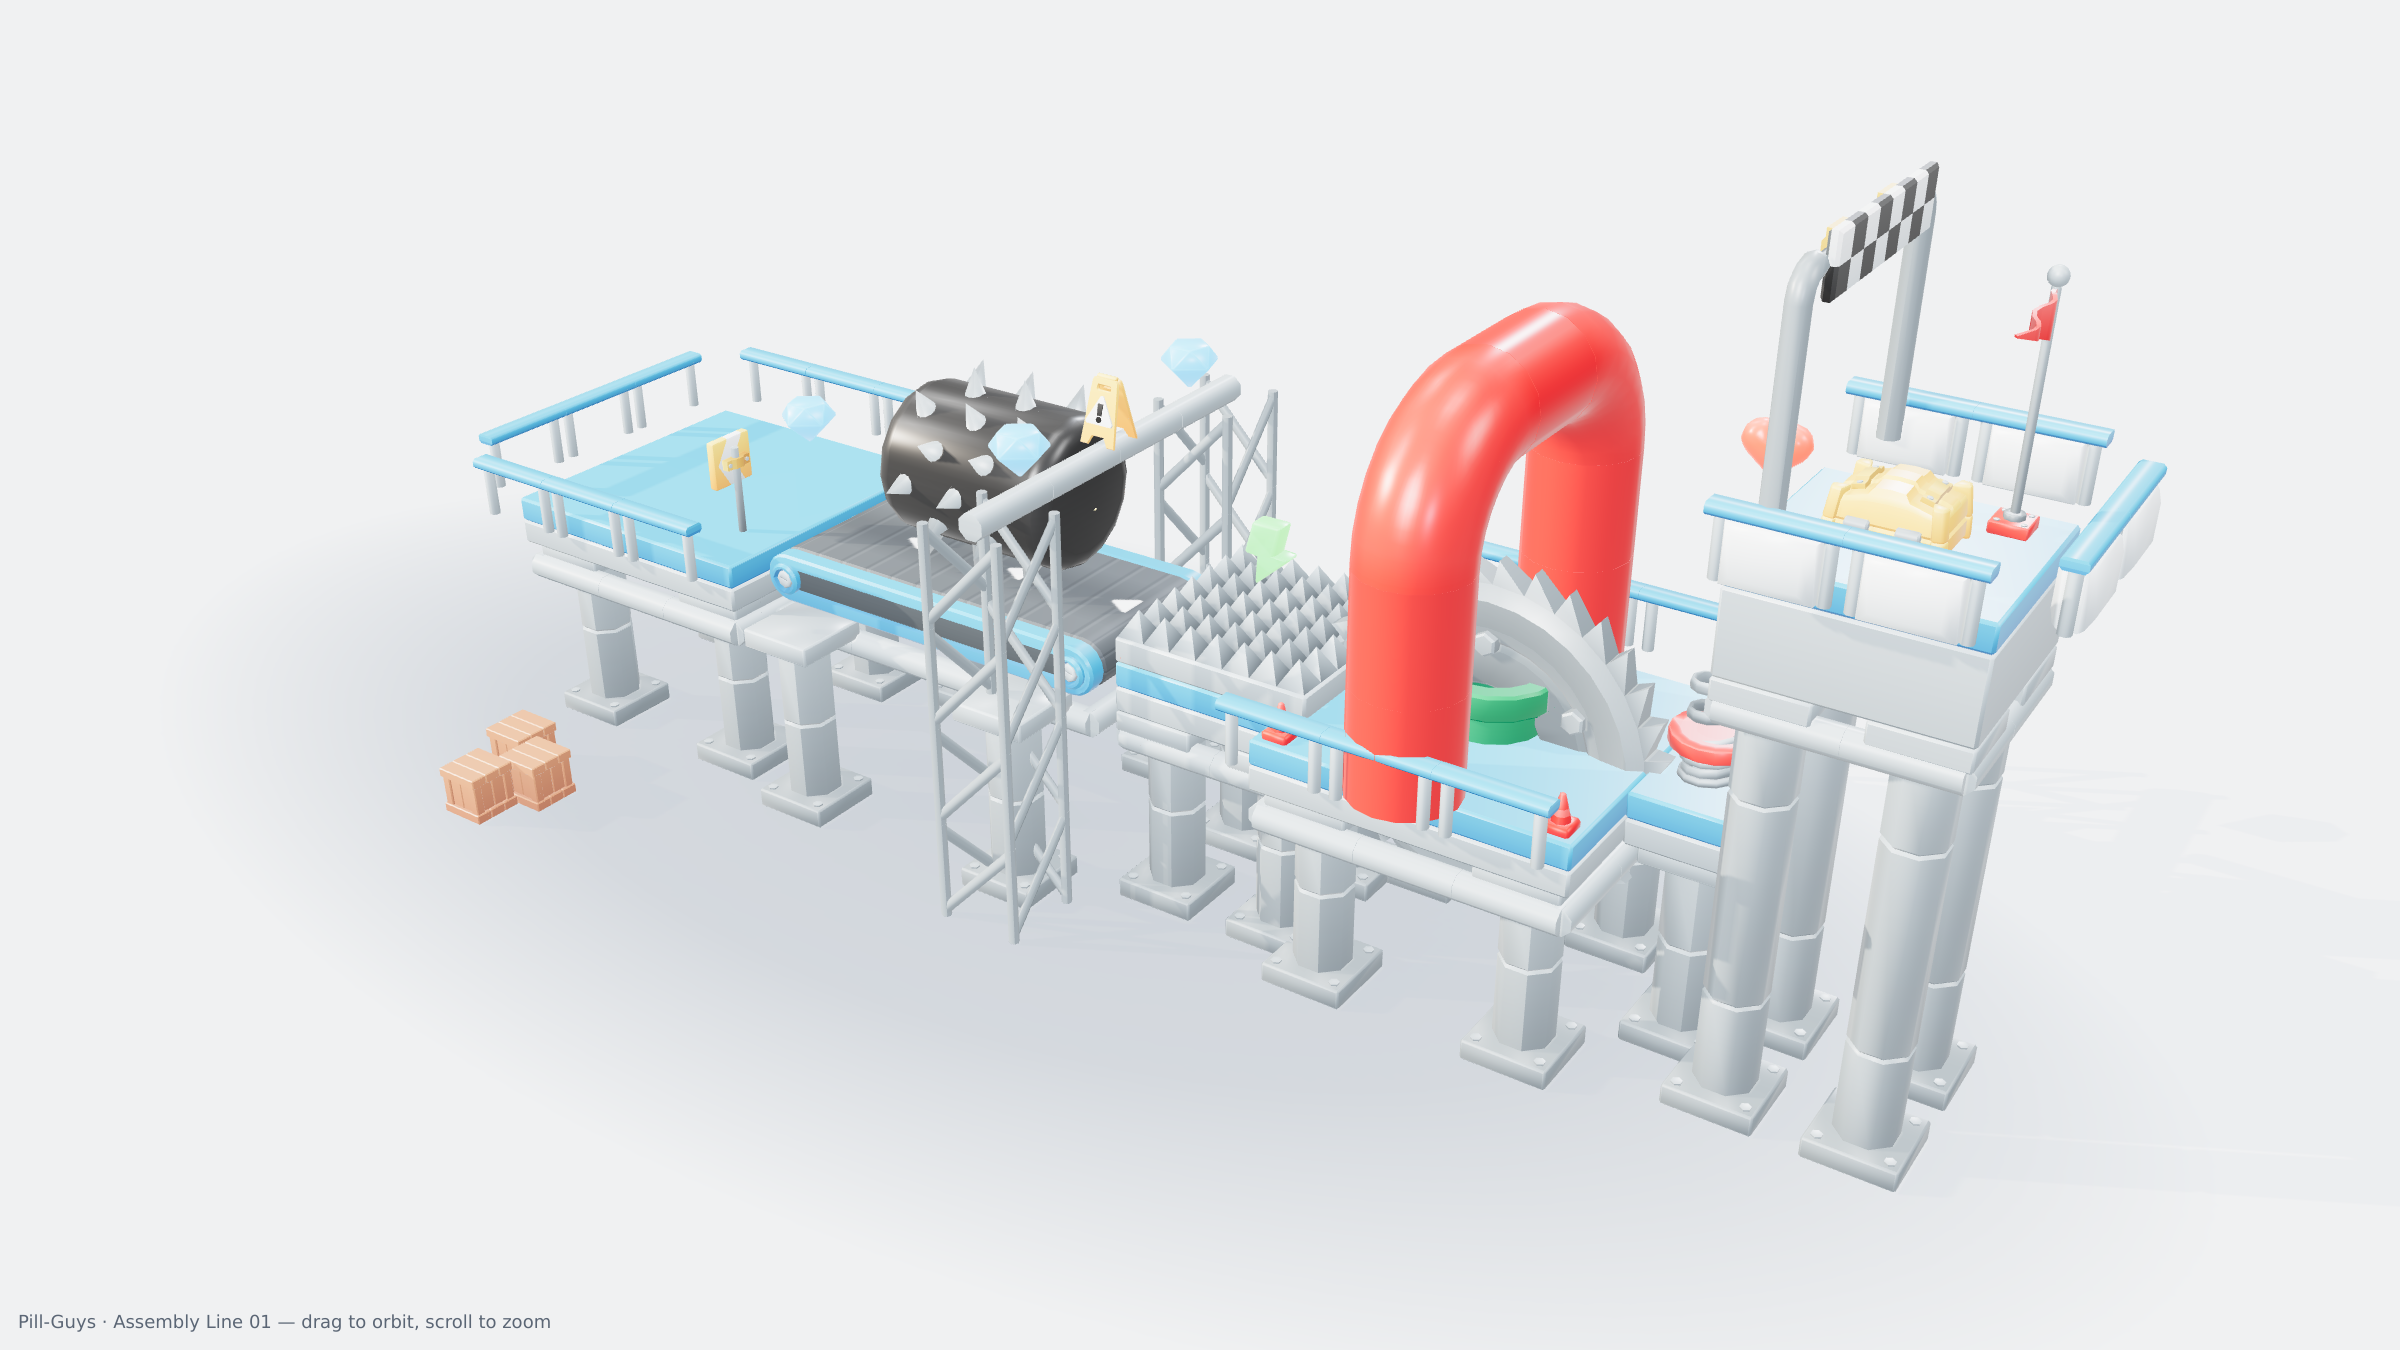
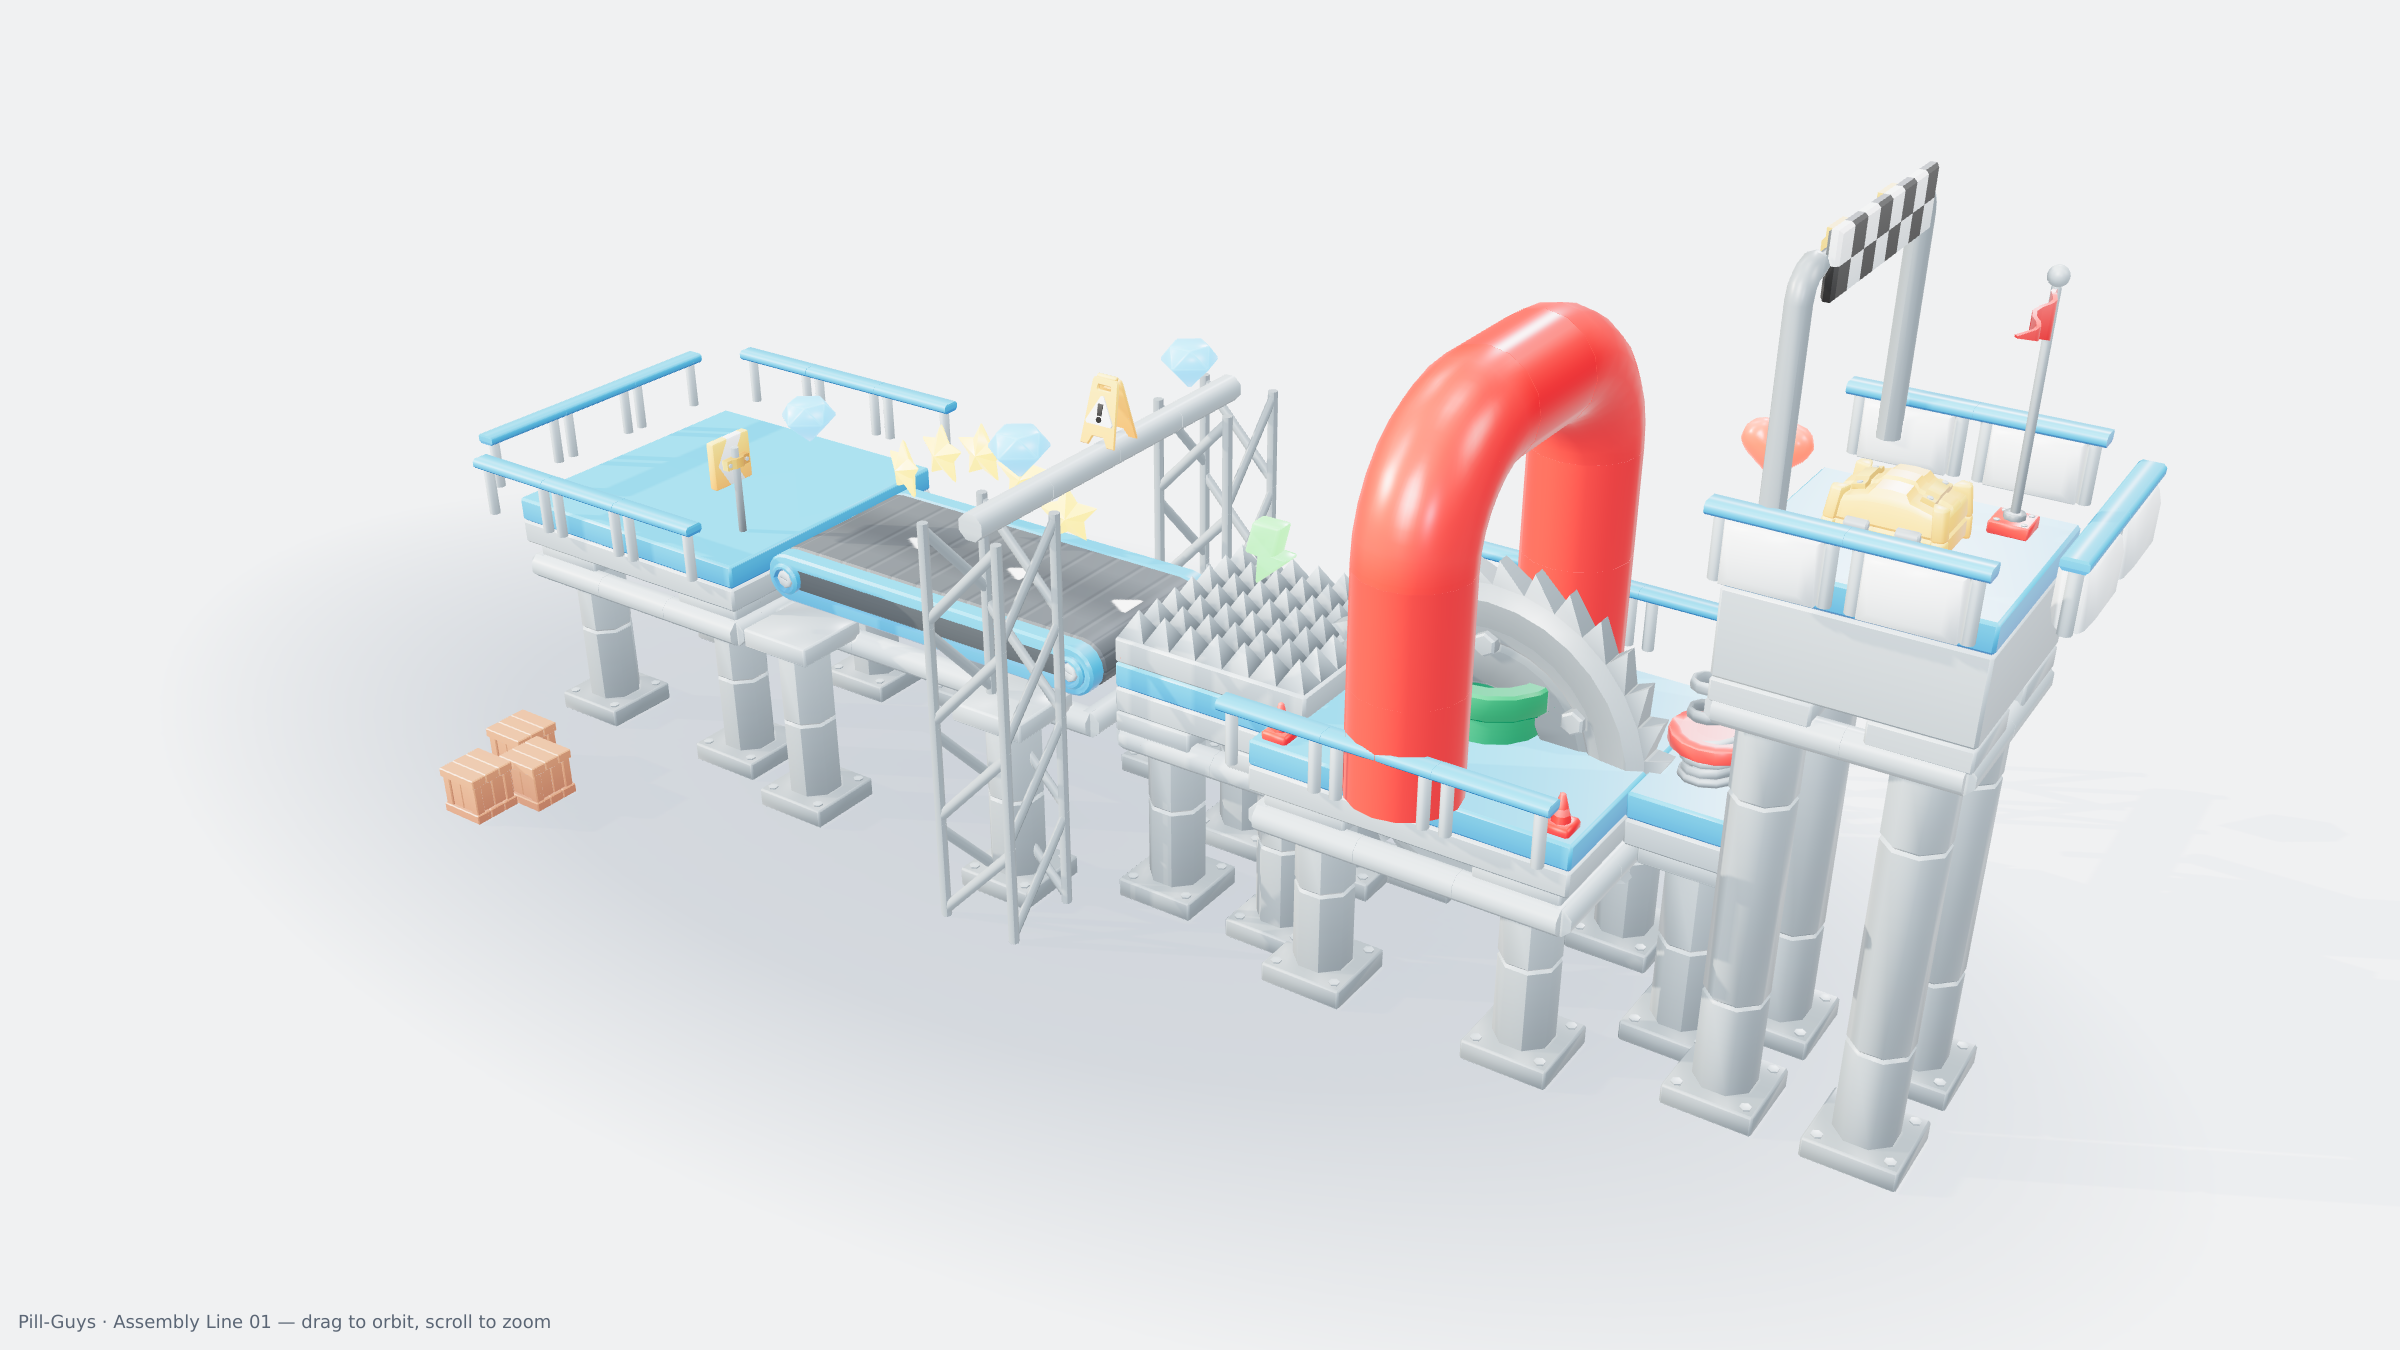
Make "Assembly Line 01" playable: physics, controls, gameplay, HUD
Wire the gameplay modules into a working browser platformer (game.html) and
fix integration issues found during end-to-end testing:
- physics.js: pass EXCLUDE_SENSORS to the character controller so trigger
  volumes are detected without acting as solid walls.
- game.js: deterministic test hooks (pause/step/testWarp) + follow camera
  offset with yaw 0 so the strip reads left->right and controls are
  world-aligned (fixes the pill drifting off the narrow decks).
- hazards.js: drop the non-functional, view-blocking spike roller.
- gameplay agents (verified): input (keyboard/touch), player (pill-guy
  kinematic capsule with coyote/jump-buffer), colliders (decks + sensors +
  8 coins), interactions + HUD, follow camera.
- integration_test.mjs: headless end-to-end test driving the real game —
  10/10 checks pass (move, jump, conveyor, spring, spikes->respawn, coins,
  finish banner, no page errors).
- README + regenerated preview.png/gameplay.png.

Play: cd web && npm install && npm run dev -> open /game.html
(WASD/arrows, Space jump, R restart).

Claude-Session: https://claude.ai/code/session_01EMvVBB8ascX6EsQtEzbMDA

Changed region(s): [[0.3438, 0.28, 0.4688, 0.4356]]

diff --git a/web/src/game.js b/web/src/game.js
@@ -19,7 +19,11 @@ async function start() {
   const world = buildColliders(physics, scene); // { spawn, coins }
   const input = createInput();
   const player = createPlayer(scene, physics, input, world.spawn);
-  const followCam = createFollowCamera(camera, player);
+  // Camera directly behind (+Z) and above so its yaw is 0: the strip reads
+  // left->right and "right" maps to world +X with no diagonal drift on the
+  // narrow decks. (An angled offset.x makes movement diagonal and walks the
+  // pill off the edge of the conveyor.)
+  const followCam = createFollowCamera(camera, player, { offset: { x: 0, y: 7.5, z: 11.5 }, lookBias: { x: 0, y: 1, z: 0 } });
   const hud = createHUD(world.coins ? world.coins.length : 0);
   const interactions = createInteractions({ physics, player, hud, world });
 
@@ -37,8 +41,40 @@ async function start() {
   }
   followCam.snap();
 
-  // Test/debug hooks (used by the headless smoke test).
-  window.__game = { scene, camera, physics, player, world, hud, input };
+  // One fixed simulation substep (shared by the rAF loop and the test hook).
+  function simStep() {
+    const yaw = followCam.yaw();
+    player.fixedUpdate(FIXED_DT, yaw);
+    physics.stepOnce();
+    interactions.update();
+    player.syncVisual();
+    if (input.restartPressed && input.restartPressed()) {
+      player.respawn();
+      hud.reset();
+      followCam.snap();
+    }
+  }
+
+  let simRunning = true;
+
+  // Test/debug hooks. step()/testWarp()/pause() let the headless integration
+  // test drive the sim deterministically (headless Chromium throttles rAF).
+  window.__game = {
+    scene, camera, physics, player, world, hud, input, followCam,
+    pause() { simRunning = false; },
+    resume() { simRunning = true; },
+    step(n = 1) {
+      for (let i = 0; i < n; i++) { simStep(); followCam.update(FIXED_DT); }
+    },
+    // Teleport the player without permanently moving the respawn point.
+    testWarp(x, y, z) {
+      const s = player.spawn;
+      const o = { x: s.x, y: s.y, z: s.z };
+      s.x = x; s.y = y; s.z = z;
+      player.respawn();
+      s.x = o.x; s.y = o.y; s.z = o.z;
+    },
+  };
   window.__ready = true;
   console.log('[game] ready');
 
@@ -47,22 +83,15 @@ async function start() {
   function frame(now) {
     const dt = Math.min((now - last) / 1000, 0.1);
     last = now;
-    acc += dt;
-    let guard = 0;
-    while (acc >= FIXED_DT && guard++ < 5) {
-      const yaw = followCam.yaw();
-      player.fixedUpdate(FIXED_DT, yaw);
-      physics.stepOnce();
-      interactions.update();
-      player.syncVisual();
-      if (input.restartPressed && input.restartPressed()) {
-        player.respawn();
-        hud.reset();
-        followCam.snap();
+    if (simRunning) {
+      acc += dt;
+      let guard = 0;
+      while (acc >= FIXED_DT && guard++ < 5) {
+        simStep();
+        acc -= FIXED_DT;
       }
-      acc -= FIXED_DT;
+      followCam.update(dt);
     }
-    followCam.update(dt);
     renderer.render(scene, camera);
     requestAnimationFrame(frame);
   }

diff --git a/web/src/props/hazards.js b/web/src/props/hazards.js
@@ -33,10 +33,6 @@ export async function build(level) {
   const sawCenterY = top - 0.4; // 4.6
   await place(level, ['sawblade', 'neutral', SEG.landmark.cx, 0, sawCenterY, 0, 90, 0]);
 
-  // --- Moving hazard: spike roller resting on the conveyor-side of the deck ---
-  // 4×4×4 cube, origin at center -> origin y = top + 2 so it rests ON the deck.
-  await place(level, ['spikeroller_horizontal', 'neutral', SEG.spikes.cx - 6, 0, top + 2]);
-
   // --- Spring launch on the bridge deck: red pad with a spring sitting in it ---
   await place(level, ['spring_pad', 'red', SEG.bridge.cx, 0, top]);
   await place(level, ['spring', 'neutral', SEG.bridge.cx, 0, top]);

diff --git a/web/src/physics.js b/web/src/physics.js
@@ -88,7 +88,10 @@ export async function initPhysics(gravityY = GRAVITY_Y) {
       collider,
       controller,
       computeMove(desired) {
-        controller.computeColliderMovement(collider, desired);
+        // EXCLUDE_SENSORS so trigger volumes (coins/spring/conveyor/finish/death)
+        // are detectable via sensorsOverlapping() without physically blocking the
+        // character like solid walls.
+        controller.computeColliderMovement(collider, desired, RAPIER.QueryFilterFlags.EXCLUDE_SENSORS);
         const m = controller.computedMovement();
         grounded = controller.computedGrounded();
         const t = body.translation();

diff --git a/web/README.md b/web/README.md
@@ -1,0 +1,42 @@
+# Pill-Guys — web
+
+A three.js + [Rapier](https://rapier.rs/) prototype of **"Assembly Line 01"**, a
+first level built entirely from the KayKit Platformer Pack (CC0). See
+[`../ASSET_GUIDE.md`](../ASSET_GUIDE.md) for the asset analysis and grid system.
+
+## Run
+
+```bash
+npm install
+npm run dev          # open the printed localhost URL
+```
+
+- `/` — static showcase (the lit hero scene used for `preview.png`)
+- `/game.html` — **play it**: WASD / arrows to move, **Space** to jump, **R** to restart
+
+## Other scripts
+
+```bash
+npm run render            # screenshot the static showcase -> preview.png
+node integration_test.mjs # headless gameplay regression test (10 checks: move,
+                          # jump, conveyor, spring, spikes-respawn, coins, finish)
+```
+
+## Layout
+
+| File | Responsibility |
+|---|---|
+| `src/scene.js` | lighting, camera, presentation (gradient backdrop, soft shadows, PBR env) |
+| `src/buildVisual.js` | composes the visual level from `src/props/*` |
+| `src/props/{structure,hazards,pipes,decor}.js` | one level concern each |
+| `src/layout.js` | shared segment coordinates (single source of truth) |
+| `src/physics.js` | Rapier world, fixed step, static/sensor helpers, kinematic capsule |
+| `src/colliders.js` | static deck colliders + sensor regions + collectible coins |
+| `src/player.js` | the "pill guy" character controller |
+| `src/input.js` | keyboard (+ touch) input |
+| `src/followCamera.js` | smooth follow camera |
+| `src/interactions.js` + `src/hud.js` | sensor reactions + DOM HUD |
+| `src/game.js` | wires everything into a fixed-step loop (entry: `game.html`) |
+
+`public/Assets` is a symlink to the repo's `../Assets` so the dev server serves the
+glTF pack without copying it.
